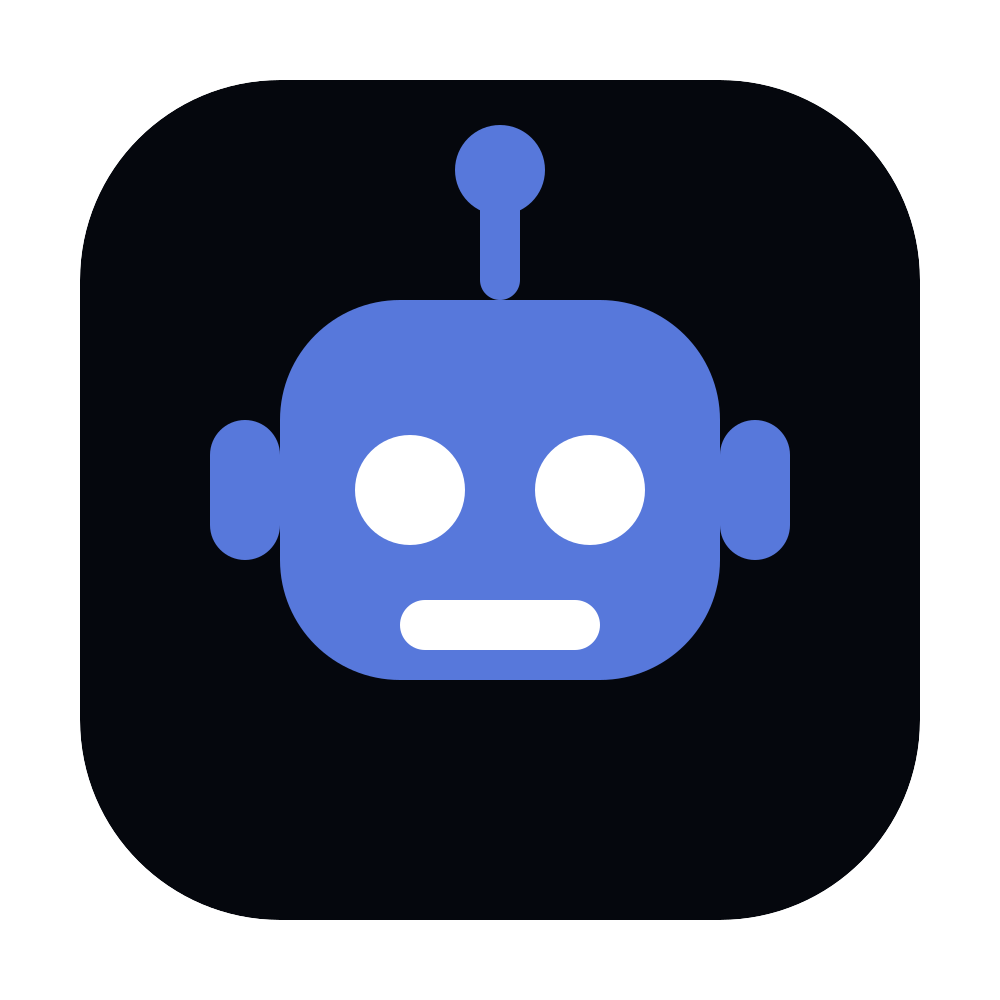
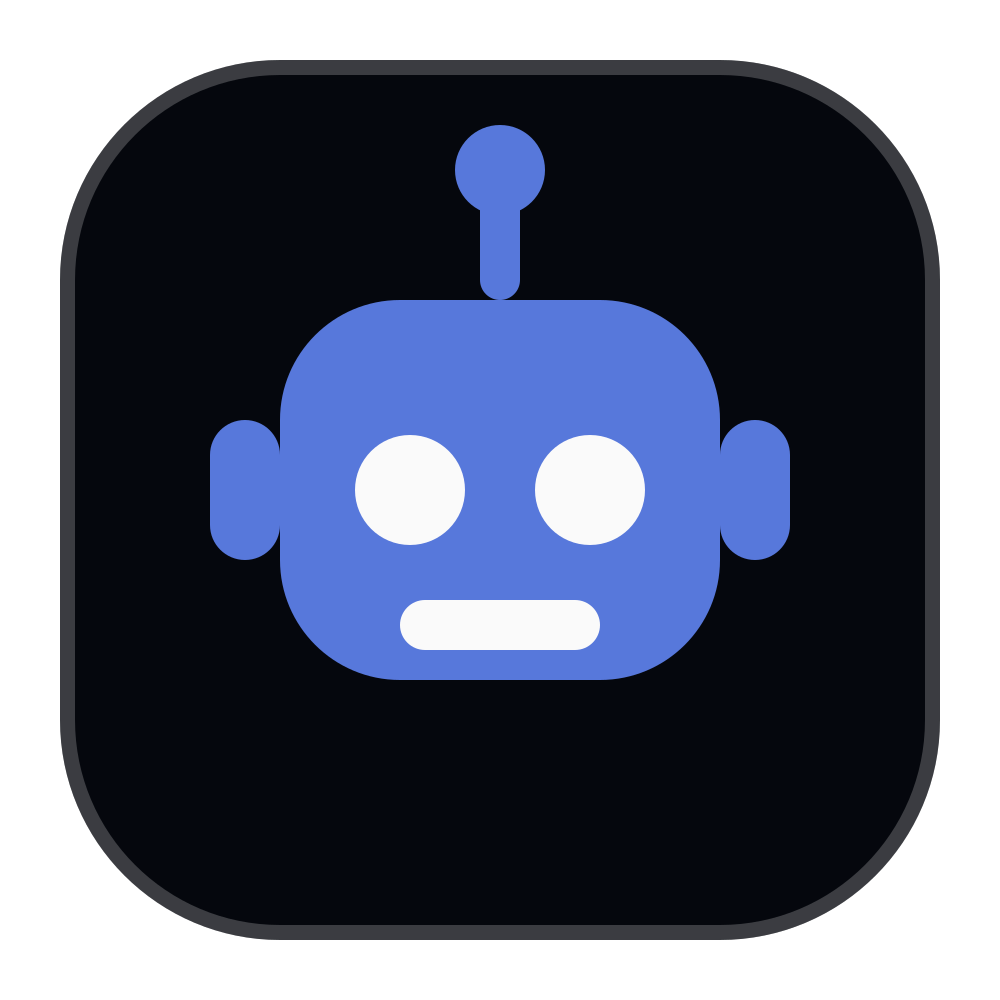
chore: publish 2026-10-04

Changed region(s): [[0.062, 0.062, 0.961, 0.961]]

diff --git a/components/shared/FaviconAnimator.tsx b/components/shared/FaviconAnimator.tsx
@@ -2,10 +2,10 @@
 
 import { useEffect } from "react"
 
-const TILE_LIGHT = "#05070D"
-const TILE_DARK = "#FAFAFA"
-const DOT_LIGHT = "#5778DB"
-const DOT_DARK = "#2445A8"
+const TILE = "#05070D"
+const EDGE = "rgba(250, 250, 250, 0.22)"
+const LETTERS = "#FAFAFA"
+const DOT = "#5778DB"
 
 export default function FaviconAnimator() {
   useEffect(() => {
@@ -26,8 +26,6 @@ export default function FaviconAnimator() {
     link.type = "image/png"
     document.head.appendChild(link)
 
-    const darkMode = window.matchMedia("(prefers-color-scheme: dark)")
-
     function roundRect(c: CanvasRenderingContext2D, x: number, y: number, w: number, h: number, r: number) {
       c.beginPath()
       c.moveTo(x + r, y)
@@ -45,34 +43,46 @@ export default function FaviconAnimator() {
     function draw(t: number) {
       if (!ctx) return
       ctx.clearRect(0, 0, 64, 64)
+      ctx.save()
+      ctx.scale(0.64, 0.64)
 
-      ctx.globalCompositeOperation = "source-over"
-      ctx.fillStyle = darkMode.matches ? TILE_DARK : TILE_LIGHT
-      roundRect(ctx, 5, 5, 54, 54, 13)
+      roundRect(ctx, 6, 6, 88, 88, 22)
+      ctx.fillStyle = TILE
       ctx.fill()
+      roundRect(ctx, 6.75, 6.75, 86.5, 86.5, 21.25)
+      ctx.strokeStyle = EDGE
+      ctx.lineWidth = 1.5
+      ctx.stroke()
 
-      ctx.globalCompositeOperation = "destination-out"
-      ctx.fillStyle = "#000000"
-      ctx.font = "800 31px ui-sans-serif, system-ui, -apple-system, 'Segoe UI', Roboto, Helvetica, Arial, sans-serif"
-      ctx.textAlign = "center"
-      ctx.textBaseline = "alphabetic"
-      ctx.fillText("ia", 26, 43)
+      ctx.translate(50, 50)
+      ctx.scale(0.92, 0.92)
+      ctx.translate(-54, -50)
+
+      ctx.strokeStyle = LETTERS
+      ctx.lineWidth = 10
+      ctx.lineCap = "round"
       ctx.beginPath()
-      ctx.arc(18, 21, 4.4, 0, Math.PI * 2)
-      ctx.fill()
+      ctx.moveTo(31, 46)
+      ctx.lineTo(31, 76)
+      ctx.moveTo(72.5, 46)
+      ctx.lineTo(72.5, 76)
+      ctx.stroke()
+      ctx.beginPath()
+      ctx.arc(57.5, 61, 15, 0, Math.PI * 2)
+      ctx.stroke()
 
-      ctx.globalCompositeOperation = "source-over"
-      ctx.fillStyle = darkMode.matches ? DOT_DARK : DOT_LIGHT
+      ctx.fillStyle = DOT
       const swing = 0.5 + 0.5 * Math.sin(t * Math.PI)
-      ctx.globalAlpha = 0.3 + 0.7 * swing
+      ctx.globalAlpha = 0.35 + 0.65 * swing
       ctx.beginPath()
-      ctx.arc(18, 21, 4.4, 0, Math.PI * 2)
+      ctx.arc(31, 29, 6, 0, Math.PI * 2)
       ctx.fill()
-      ctx.globalAlpha = 0.3 + 0.7 * (1 - swing)
+      ctx.globalAlpha = 0.35 + 0.65 * (1 - swing)
       ctx.beginPath()
-      ctx.arc(45, 40, 3.6, 0, Math.PI * 2)
+      ctx.arc(86, 73, 5.5, 0, Math.PI * 2)
       ctx.fill()
       ctx.globalAlpha = 1
+      ctx.restore()
 
       link.href = canvas.toDataURL("image/png")
     }
